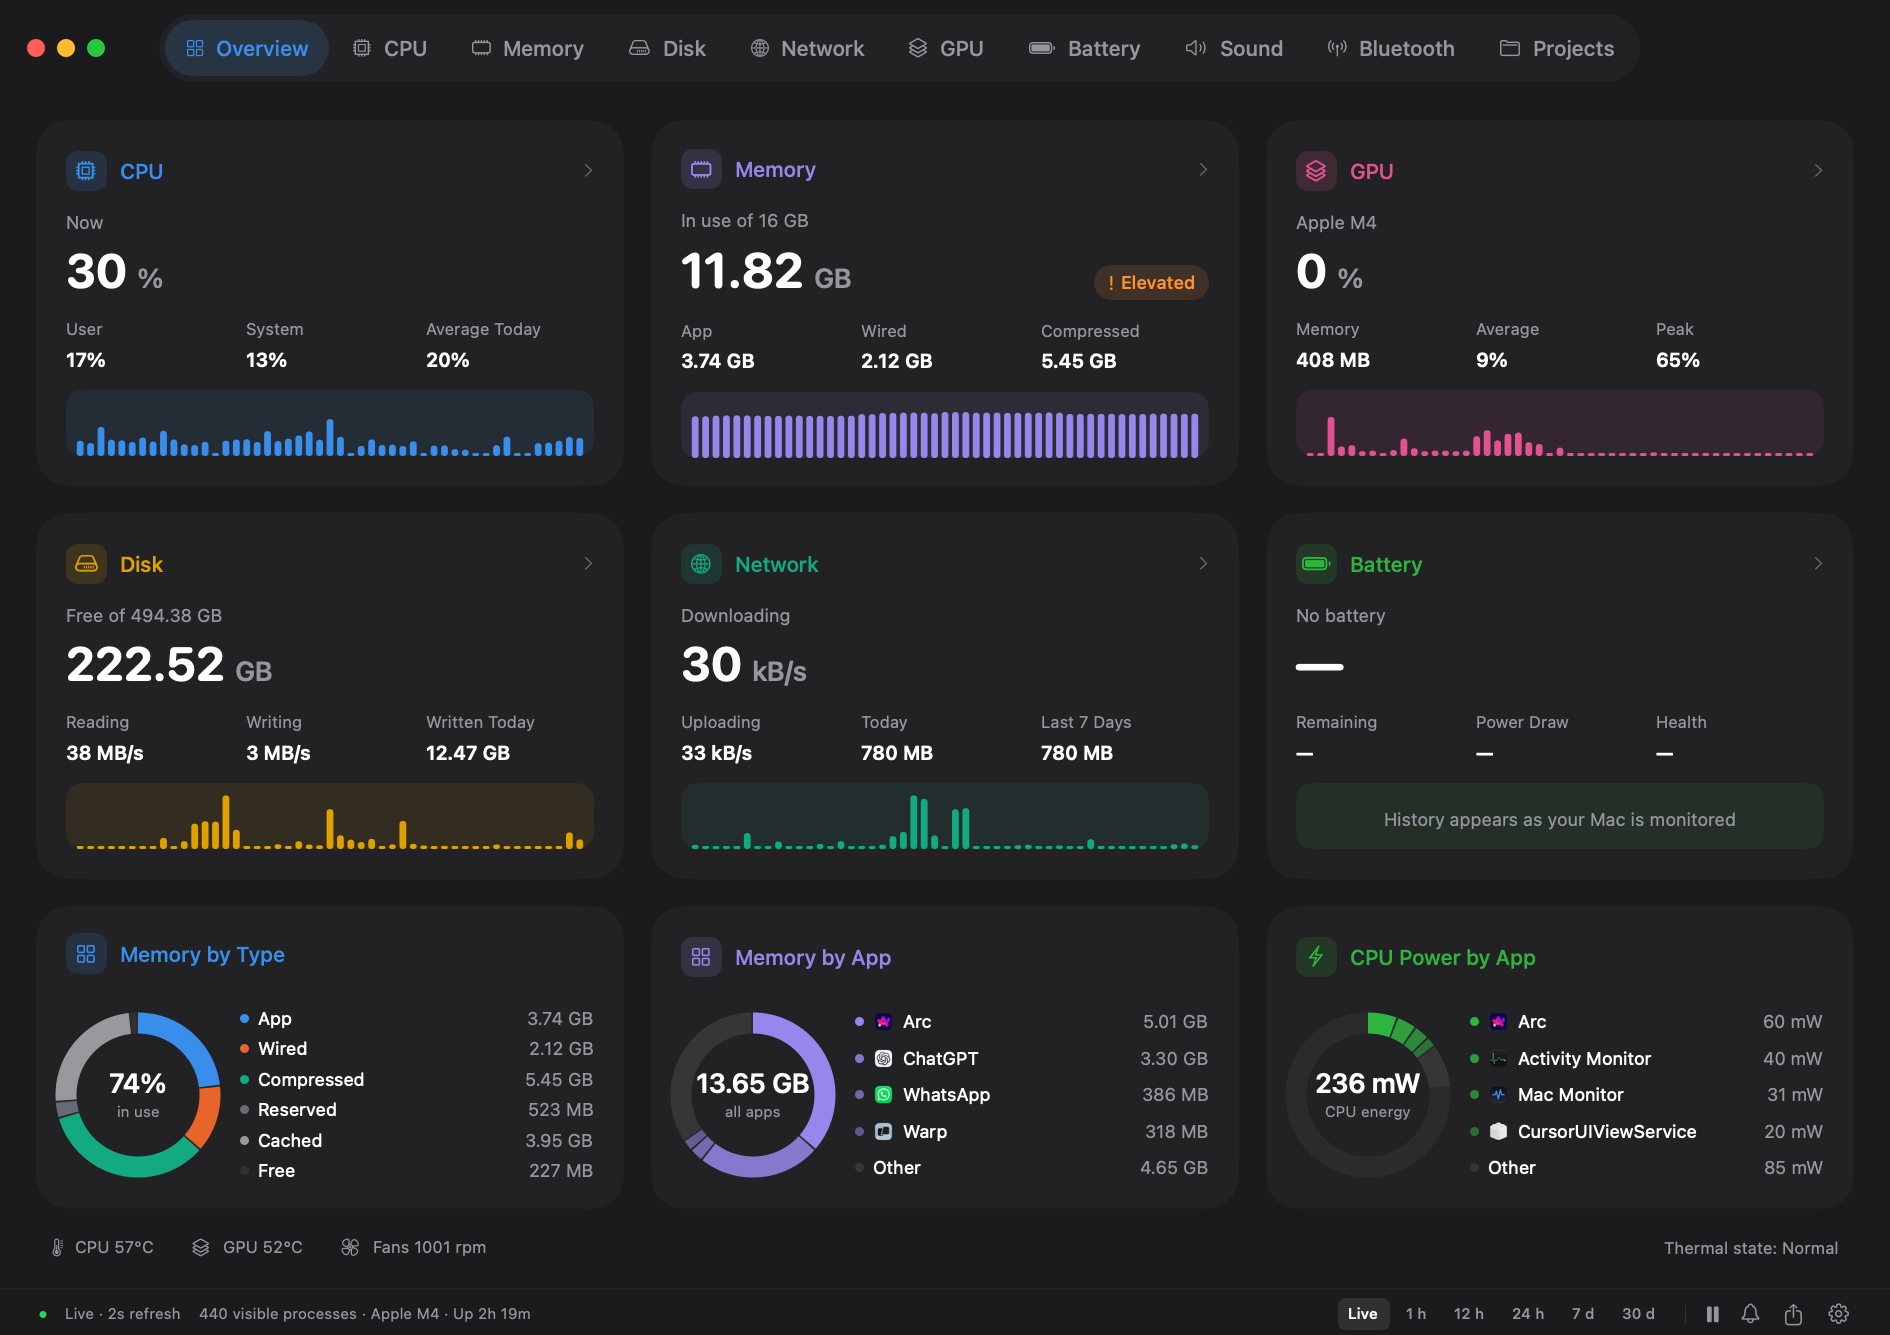
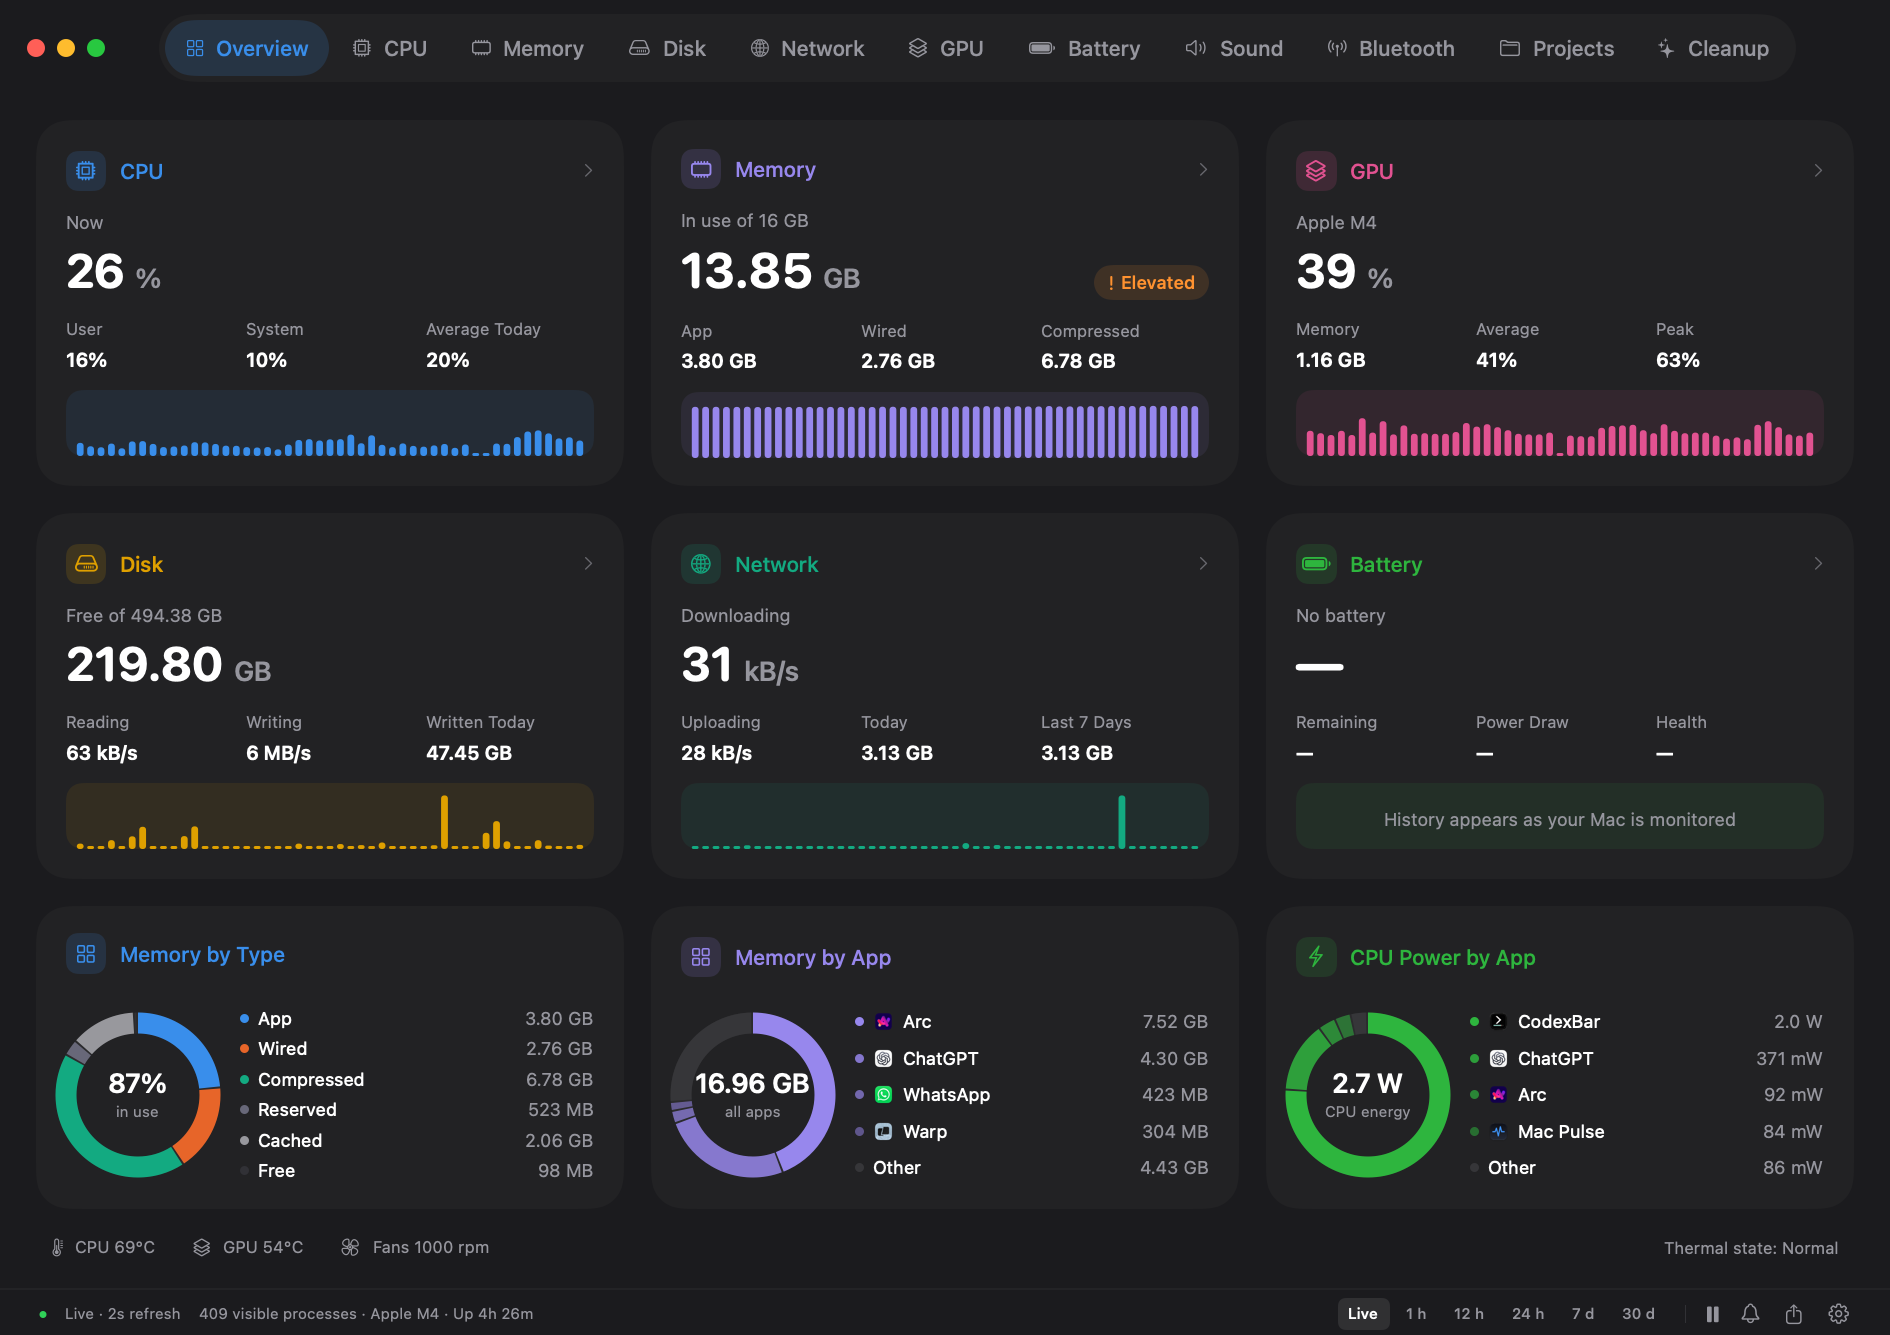
Rename app to Mac Pulse and present monitoring and cleanup together

diff --git a/Sources/MacMonitor/App.swift b/Sources/MacMonitor/App.swift
@@ -7,7 +7,7 @@ struct MacMonitorApp: App {
   @NSApplicationDelegateAdaptor(MonitorAppDelegate.self) private var delegate
   @StateObject private var store = MonitorStore()
   var body: some Scene {
-    WindowGroup("Mac Monitor", id: "dashboard") {
+    WindowGroup(AppIdentity.name, id: "dashboard") {
       DashboardRoot(store: store, delegate: delegate)
     }.defaultSize(width: 1260, height: 890).windowStyle(.hiddenTitleBar)
       .commands {
@@ -45,7 +45,7 @@ struct WindowSetup: NSViewRepresentable {
     let view = NSView()
     DispatchQueue.main.async {
       if let window = view.window {
-        window.title = "Mac Monitor"
+        window.title = AppIdentity.name
         window.titlebarAppearsTransparent = true
         window.titleVisibility = .hidden
         for button in [NSWindow.ButtonType.closeButton, .miniaturizeButton, .zoomButton] {
@@ -118,7 +118,7 @@ final class MonitorAppDelegate: NSObject, NSApplicationDelegate, NSPopoverDelega
     }
     item?.button?.image = NSImage(
       systemSymbolName: s.pressure == "Critical" ? "exclamationmark.triangle" : "waveform.path.ecg",
-      accessibilityDescription: "Mac Monitor")
+      accessibilityDescription: AppIdentity.name)
     item?.button?.imagePosition = .imageLeft
     item?.button?.title = parts.isEmpty ? "" : " " + parts.joined(separator: "  ")
     item?.button?.font = NSFont.monospacedDigitSystemFont(ofSize: 11, weight: .regular)
@@ -165,7 +165,7 @@ final class MonitorAppDelegate: NSObject, NSApplicationDelegate, NSPopoverDelega
   private func openWindow() {
     popover.performClose(nil)
     NSApp.activate(ignoringOtherApps: true)
-    if let window = NSApp.windows.first(where: { $0.title == "Mac Monitor" }) {
+    if let window = NSApp.windows.first(where: { $0.title == AppIdentity.name }) {
       window.makeKeyAndOrderFront(nil)
     } else {
       showWindow?()
@@ -178,7 +178,7 @@ struct MenuDashboard: View {
   var body: some View {
     VStack(alignment: .leading, spacing: 14) {
       HStack {
-        Label("Mac Monitor", systemImage: "waveform.path.ecg").font(
+        Label(AppIdentity.name, systemImage: "waveform.path.ecg").font(
           .system(size: 15, weight: .semibold))
         Spacer()
         Text("Up \(Format.duration(store.snapshot.uptime))").font(.system(size: 10))

diff --git a/ThirdParty/BlitzClean/Sources/FolderExplorerView.swift b/ThirdParty/BlitzClean/Sources/FolderExplorerView.swift
@@ -113,10 +113,10 @@ struct FolderExplorerView: View {
       HStack(spacing: 8) {
         Button("Back", systemImage: "chevron.left") { model.goBack() }
           .blitzButton(.quiet).disabled(model.backPaths.isEmpty)
-          .help("Return to the previous folder in Mac Monitor")
+          .help("Return to the previous folder in \(AppBrand.name)")
         if !model.forwardPaths.isEmpty {
           Button("Forward", systemImage: "chevron.right") { model.goForward() }
-            .blitzButton(.quiet).help("Return to the next folder in Mac Monitor")
+            .blitzButton(.quiet).help("Return to the next folder in \(AppBrand.name)")
         }
         ScrollView(.horizontal, showsIndicators: false) {
           HStack(spacing: 2) {
@@ -127,7 +127,7 @@ struct FolderExplorerView: View {
               }
               Button(crumb.title) { model.open(crumb.path) }
                 .blitzButton(.quiet).controlSize(.small).fixedSize()
-                .help("Open \(crumb.title) in Mac Monitor")
+                .help("Open \(crumb.title) in \(AppBrand.name)")
             }
           }
         }

diff --git a/Sources/MacMonitor/Panels.swift b/Sources/MacMonitor/Panels.swift
@@ -500,7 +500,7 @@ struct SettingsView: View {
             Toggle("Show network speeds in bits per second", isOn: $store.networkBits)
             Toggle("Use Fahrenheit for temperatures", isOn: $store.fahrenheit)
             Toggle("Send notifications for unusual app activity", isOn: $store.notifications)
-            Toggle("Open Mac Monitor at login", isOn: $login).onChange(of: login) { _, enabled in
+            Toggle("Open \(AppIdentity.name) at login", isOn: $login).onChange(of: login) { _, enabled in
               do {
                 if enabled {
                   try SMAppService.mainApp.register()
@@ -523,7 +523,7 @@ struct SettingsView: View {
                   "MacMonitor")
               NSWorkspace.shared.open(path)
             }
-            Text("Mac Monitor · Version 1.0\nA native dashboard built for your Mac.").font(
+            Text("\(AppIdentity.name) · Version \(AppIdentity.version)\nSystem monitoring and cleanup for your Mac.").font(
               .system(size: 12)
             ).foregroundStyle(Color.muted).padding(.top, 12)
           } else if section == "Layout" {

diff --git a/Sources/MacMonitor/Devices.swift b/Sources/MacMonitor/Devices.swift
@@ -58,6 +58,7 @@ final class AudioController: ObservableObject {
       var address = property(kAudioDevicePropertyStreams, scope: kAudioDevicePropertyScopeOutput)
       var bytes: UInt32 = 0
       guard AudioObjectGetPropertyDataSize(id, &address, 0, nil, &bytes) == noErr, bytes > 0,
+        string(id, kAudioObjectPropertyName)?.contains("Mac Pulse") != true,
         string(id, kAudioObjectPropertyName)?.contains("Mac Monitor") != true
       else { return nil }
       return AudioDevice(id: id, name: string(id, kAudioObjectPropertyName) ?? "Output")
@@ -180,7 +181,7 @@ final class AudioController: ObservableObject {
       gains[app.id] = gain
     } else {
       error =
-        "Audio mixing could not start (\(status)). Allow Mac Monitor in System Settings → Privacy & Security → Screen & System Audio Recording, then relaunch."
+        "Audio mixing could not start (\(status)). Allow \(AppIdentity.name) in System Settings → Privacy & Security → Screen & System Audio Recording, then relaunch."
     }
   }
   func reset() {

diff --git a/Sources/MacMonitor/MonitorStore.swift b/Sources/MacMonitor/MonitorStore.swift
@@ -265,7 +265,7 @@ final class MonitorStore: ObservableObject {
         if !granted {
           self.message =
             error?.localizedDescription
-            ?? "Enable notifications for Mac Monitor in System Settings."
+            ?? "Enable notifications for \(AppIdentity.name) in System Settings."
         }
       }
     }
@@ -322,7 +322,7 @@ final class MonitorStore: ObservableObject {
   func exportCSV() {
     let panel = NSSavePanel()
     panel.nameFieldStringValue =
-      "Mac-Monitor-\(Date().formatted(.iso8601.year().month().day())) .csv".replacingOccurrences(
+      "\(AppIdentity.exportName)-\(Date().formatted(.iso8601.year().month().day())) .csv".replacingOccurrences(
         of: " .", with: ".")
     panel.allowedContentTypes = [.commaSeparatedText]
     guard panel.runModal() == .OK, let url = panel.url else { return }

diff --git a/Sources/MacMonitor/Dashboard.swift b/Sources/MacMonitor/Dashboard.swift
@@ -24,7 +24,7 @@ import SwiftUI
       .sheet(item: $store.selectedApp) { app in AppDetailView(store: store, app: app) }
       .sheet(isPresented: $store.alertsVisible) { AlertsView(store: store) }
       .alert(
-        "Mac Monitor",
+        AppIdentity.name,
         isPresented: Binding(get: { store.message != nil }, set: { if !$0 { store.message = nil } })
       ) {
         Button("OK") { store.message = nil }
@@ -419,7 +419,7 @@ import SwiftUI
       return
     }
     let panel = NSSavePanel()
-    panel.nameFieldStringValue = "Mac-Monitor.png"
+    panel.nameFieldStringValue = "\(AppIdentity.exportName).png"
     panel.allowedContentTypes = [.png]
     if panel.runModal() == .OK, let url = panel.url {
       do { try png.write(to: url) } catch { store.message = error.localizedDescription }

diff --git a/ThirdParty/BlitzClean/Sources/MediaExport.swift b/ThirdParty/BlitzClean/Sources/MediaExport.swift
@@ -167,7 +167,7 @@ enum MediaExportEngine {
       try ReviewFileDeletion.validateIdentity(.init(file: file, roots: request.roots))
     }
     let final = destination.appendingPathComponent(
-      "MacMonitor-\(UUID().uuidString.prefix(8)).\(ext)")
+      "Mac-Pulse-\(UUID().uuidString.prefix(8)).\(ext)")
     try FileManager.default.moveItem(at: output, to: final)
     let size =
       (try FileManager.default.attributesOfItem(atPath: final.path)[.size] as? NSNumber)?.int64Value

diff --git a/ThirdParty/BlitzClean/Sources/MacMonitorCleanup.swift b/ThirdParty/BlitzClean/Sources/MacMonitorCleanup.swift
@@ -2,7 +2,7 @@ import AppKit
 import Combine
 import SwiftUI
 
-/// Values supplied by Mac Monitor's collector. Cleanup does not run a second stats timer.
+/// Values supplied by Mac Pulse's collector. Cleanup does not run a second stats timer.
 public struct CleanupMetrics {
   public var diskAvailable: Double
   public var diskTotal: Double

diff --git a/ThirdParty/BlitzClean/Sources/AppData.swift b/ThirdParty/BlitzClean/Sources/AppData.swift
@@ -1,6 +1,6 @@
 import Foundation
 
-/// Isolated Mac Monitor cleanup data; never migrates another application’s files.
+/// Isolated host cleanup data; retains the original storage path across the Mac Pulse rename.
 enum AppData {
   static var directory: URL {
     FileManager.default.homeDirectoryForCurrentUser

diff --git a/Sources/MacMonitor/AppIdentity.swift b/Sources/MacMonitor/AppIdentity.swift
@@ -1,0 +1,10 @@
+import Foundation
+
+enum AppIdentity {
+  static let name = "Mac Pulse"
+  static let exportName = "Mac-Pulse"
+  static var version: String {
+    Bundle.main.object(forInfoDictionaryKey: "CFBundleShortVersionString") as? String
+      ?? "Development"
+  }
+}

diff --git a/ThirdParty/BlitzClean/Sources/AppBrand.swift b/ThirdParty/BlitzClean/Sources/AppBrand.swift
@@ -2,7 +2,7 @@ import AppKit
 import SwiftUI
 
 enum AppBrand {
-  static let name = "Mac Monitor"
+  static let name = "Mac Pulse"
   static var version: String {
     Bundle.main.object(forInfoDictionaryKey: "CFBundleShortVersionString") as? String
       ?? "Development"

diff --git a/Sources/SystemBridge/Audio.m b/Sources/SystemBridge/Audio.m
@@ -74,10 +74,10 @@ MMMixer mm_mixer_create(const uint32_t *objects, int count, float gain, int *err
         processes = [NSMutableArray array];
         for (int i = 0; i < count; i++) [processes addObject:@(objects[i])];
         desc = [[CATapDescription alloc] initWithProcesses:processes andDeviceUID:outputUID withStream:0];
-        desc.name = @"Mac Monitor app mixer"; desc.privateTap = YES; desc.muteBehavior = CATapMutedWhenTapped;
+        desc.name = @"Mac Pulse app mixer"; desc.privateTap = YES; desc.muteBehavior = CATapMutedWhenTapped;
         status = AudioHardwareCreateProcessTap(desc, &m->tap); if (status) goto fail;
         aggregate = @{
-            @kAudioAggregateDeviceNameKey: @"Mac Monitor Private Mixer",
+            @kAudioAggregateDeviceNameKey: @"Mac Pulse Private Mixer",
             @kAudioAggregateDeviceUIDKey: [NSUUID UUID].UUIDString,
             @kAudioAggregateDeviceIsPrivateKey: @YES,
             @kAudioAggregateDeviceMainSubDeviceKey: outputUID,
